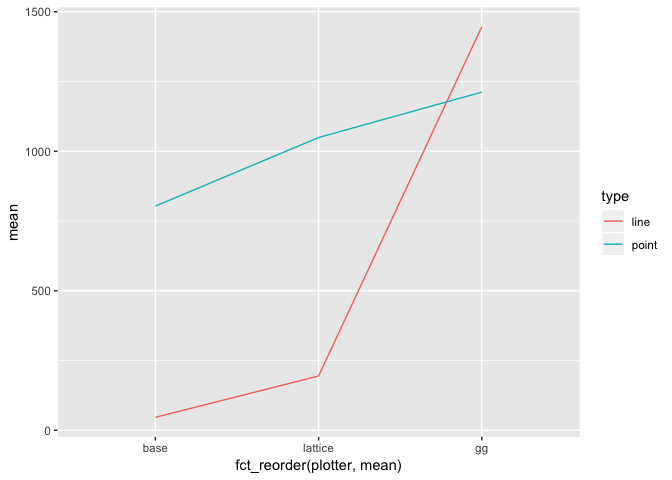
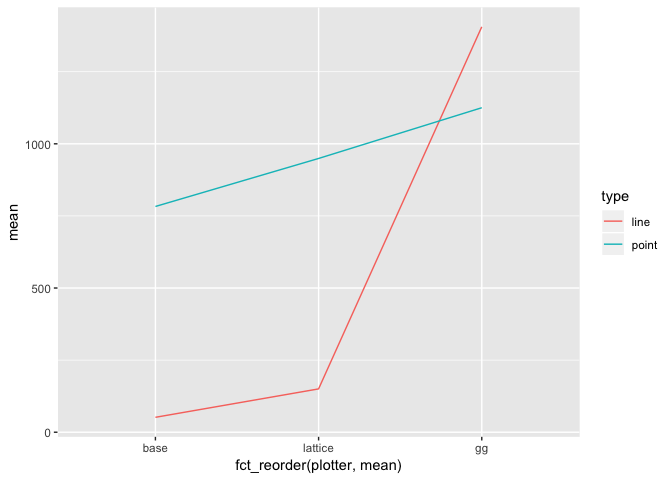
changed to geom_path

diff --git a/line-profile-report.md b/line-profile-report.md
@@ -24,7 +24,7 @@ line_point_bencher <- function(data, times = 5) {
     },
     gg_line = {
       png()
-      p <- ggplot(data, aes(x = id, y = val)) + geom_line()
+      p <- ggplot(data, aes(x = id, y = val)) + geom_path()
       print(p)
       dev.off()
     },
@@ -83,20 +83,20 @@ plots
 ```
 
     ## Unit: milliseconds
-    ##           expr        min        lq       mean     median         uq
-    ##       gg_point 1067.10273 1134.5488 1211.86491 1182.22471 1257.71854
-    ##        gg_line 1368.92391 1396.5177 1445.88414 1407.19722 1461.88547
-    ##     base_point  679.48266  726.3549  803.41064  756.84045  924.22937
-    ##      base_line   40.12563   45.8121   46.44267   47.38094   47.76422
-    ##  lattice_point  931.18725  960.4839 1049.16388 1033.61636 1113.26422
-    ##   lattice_line  148.57836  198.1019  194.54966  200.94890  212.19004
+    ##           expr        min         lq       mean     median         uq
+    ##       gg_point  955.60169  960.10763 1125.17344  976.54919  997.81180
+    ##        gg_line 1277.37230 1338.81342 1405.59149 1386.15056 1425.05862
+    ##     base_point  659.12658  703.90283  782.73172  714.00272  756.40881
+    ##      base_line   41.34096   41.63077   51.70979   44.23391   52.52717
+    ##  lattice_point  798.69353  829.01949  949.21946  884.19736 1085.03006
+    ##   lattice_line  122.88982  124.68733  150.31449  129.52496  164.15743
     ##         max neval
-    ##  1417.72981     5
-    ##  1594.89645     5
-    ##   930.14580     5
-    ##    51.13046     5
-    ##  1207.26764     5
-    ##   212.92908     5
+    ##  1735.79688     5
+    ##  1600.56256     5
+    ##  1080.21767     5
+    ##    78.81612     5
+    ##  1149.15685     5
+    ##   210.31290     5
 
 ``` r
 line_point_plotter(plots)
@@ -114,19 +114,19 @@ plots
 
     ## Unit: milliseconds
     ##           expr        min         lq       mean     median         uq
-    ##       gg_point 1921.47572 2096.92848 2135.63240 2130.36487 2229.59870
-    ##        gg_line 2966.62471 2971.90800 3119.10305 3058.62106 3284.50726
-    ##     base_point 1130.31465 1342.25678 1404.05437 1368.19646 1561.37031
-    ##      base_line   56.07836   58.37571   61.02756   58.68757   62.43244
-    ##  lattice_point 1584.59264 1586.92679 1793.71594 1863.95901 1936.69198
-    ##   lattice_line  188.89123  205.94485  260.07433  229.39967  336.29934
+    ##       gg_point 1354.32326 1400.15816 1416.53312 1411.59363 1441.33522
+    ##        gg_line 2339.60328 2345.06496 2375.27860 2378.45826 2380.96884
+    ##     base_point 1013.67282 1014.59156 1028.20068 1016.85811 1026.04282
+    ##      base_line   49.34238   50.11752   52.24116   51.28954   54.58945
+    ##  lattice_point 1219.72859 1234.33703 1248.71904 1243.10479 1247.89119
+    ##   lattice_line  152.44533  156.49358  173.21860  161.13870  171.57044
     ##         max neval
-    ##  2299.79421     5
-    ##  3313.85424     5
-    ##  1618.13363     5
-    ##    69.56374     5
-    ##  1996.40929     5
-    ##   339.83656     5
+    ##  1475.25535     5
+    ##  2432.29765     5
+    ##  1069.83809     5
+    ##    55.86691     5
+    ##  1298.53358     5
+    ##   224.44495     5
 
 ``` r
 line_point_plotter(plots)
@@ -145,20 +145,20 @@ plots
 ```
 
     ## Unit: milliseconds
-    ##           expr        min         lq       mean     median         uq
-    ##       gg_point 1048.70611 1071.54328 1206.07666 1208.57124 1304.10824
-    ##        gg_line  601.31333  648.56034  724.70897  734.21683  801.27646
-    ##     base_point  823.95110  841.11660  878.32085  864.68588  919.84401
-    ##      base_line   46.25282   46.65643   57.11641   47.57448   68.78533
-    ##  lattice_point  898.27852  916.28306  976.11856  952.62965 1055.09482
-    ##   lattice_line  141.49604  146.08728  175.79878  170.55766  188.08395
-    ##         max neval
-    ##  1397.45441     5
-    ##   838.17791     5
-    ##   942.00665     5
-    ##    76.31298     5
-    ##  1058.30675     5
-    ##   232.76897     5
+    ##           expr       min        lq      mean    median        uq       max
+    ##       gg_point 935.04004 937.06510 972.41199 971.03675 994.24027 1024.6778
+    ##        gg_line 722.62502 762.66961 776.39035 768.17703 772.93910  855.5410
+    ##     base_point 634.11219 642.84831 652.57211 652.07935 658.06431  675.7564
+    ##      base_line  39.42502  43.54234  43.14345  43.76573  44.20875   44.7754
+    ##  lattice_point 809.75045 813.28855 816.13405 814.75620 815.86490  827.0101
+    ##   lattice_line 129.26945 130.19910 135.60444 132.49783 135.90373  150.1521
+    ##  neval
+    ##      5
+    ##      5
+    ##      5
+    ##      5
+    ##      5
+    ##      5
 
 ``` r
 line_point_plotter(plots)
